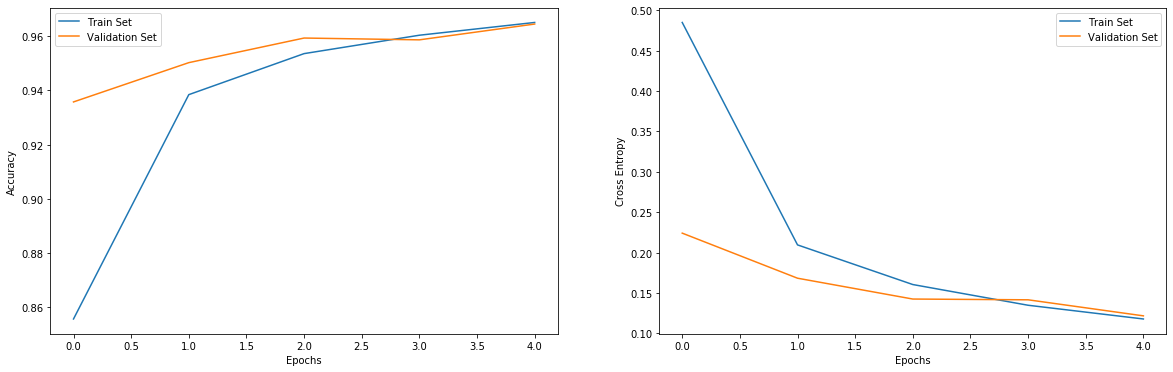
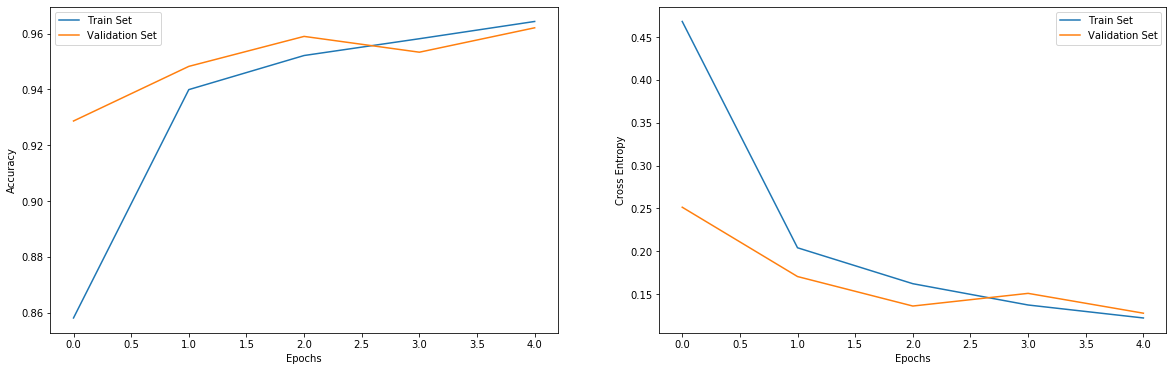
Refactored code

diff --git a/Digits Classifier/Digits Classifier using an RNN/README.md b/Digits Classifier/Digits Classifier using an RNN/README.md
@@ -11,9 +11,9 @@ indims  = 28
 neurons = 150
 outdims = 10
 
-input_layer   = tf.keras.layers.Input(shape = (steps, indims))
-logits_layer  = tf.keras.layers.SimpleRNN(neurons)(input_layer)
-output_layer  = tf.keras.layers.Dense(outdims, activation = 'softmax')(logits_layer)
+input_layer  = tf.keras.layers.Input(shape = (steps, indims))
+logits_layer = tf.keras.layers.SimpleRNN(neurons)(input_layer)
+output_layer = tf.keras.layers.Dense(outdims, activation = 'softmax')(logits_layer)
 
 rnn_model = tf.keras.Model(inputs = input_layer, outputs = output_layer)
 rnn_model.compile(loss = 'categorical_crossentropy', optimizer = 'adam', metrics = ['accuracy'])
@@ -36,19 +36,10 @@ y_test  = tf.keras.utils.to_categorical(y_test)
 
 fig, axes = plt.subplots(6, 6, figsize = (15, 15))
 
-samples = np.array([
-    [0,  1,  2,  3,   4,  5],
-    [6,  7,  8,  9,  10, 11],
-    [12, 13, 14, 15, 16, 17],
-    [18, 19, 20, 21, 22, 23],
-    [24, 25, 26, 27, 28, 29],
-    [30, 31, 32, 33, 34, 35]
-])
-
 for row in range(0, 6):
     for col in range(0, 6):
-        current_image = X_train[samples[row, col]]
-        axes[row, col].set_title(str(y_train[samples[row, col]].argmax()))
+        current_image = X_train[6 * row + col]
+        axes[row, col].set_title(str(y_train[6 * row + col].argmax()))
         axes[row, col].axis('off')
         axes[row, col].imshow(current_image, cmap = 'gray')
 
@@ -68,7 +59,7 @@ _, rnn_model_accuracy = rnn_model.evaluate(X_test, y_test, verbose = 0)
 print("accuracy: ", rnn_model_accuracy)
 ```
 
-    accuracy:  0.9627
+    accuracy:  0.9603
 
 
 ## Plotting the Results
